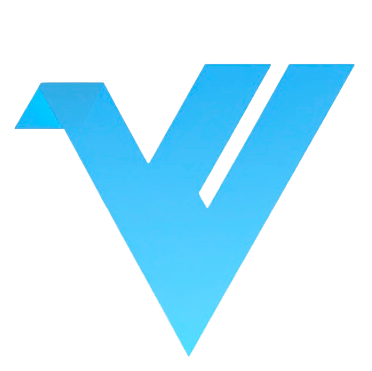
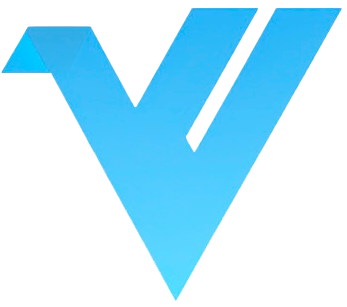
corrigido erros visuais ao tentar logar com um usuário não existente

diff --git a/src/components/login-form.tsx b/src/components/login-form.tsx
@@ -6,7 +6,6 @@ import { Label } from "@/components/ui/label";
 import { Card, CardContent, CardHeader, CardTitle } from "@/components/ui/card";
 import { useNavigate } from "react-router-dom";
 import ModalAviso from "@/components/modal-aviso";
-import { AlertTriangle } from "lucide-react";
 
 export function LoginForm() {
   const [login, setLogin] = useState("");
@@ -58,11 +57,11 @@ export function LoginForm() {
     <div className="min-h-screen w-screen flex items-center justify-center bg-gradient-to-br from-blue-100 to-blue-300 p-4 m-0">
       <div className="flex w-full max-w-5xl h-[500px] bg-white rounded-lg shadow overflow-hidden">
         {/* Imagem à esquerda */}
-        <div className="basis-1/2 bg-gradient-to-br from-gray-100 to-gray-300 hidden md:block">
+        <div className="basis-1/2 bg-gradient-to-br from-gray-100 to-gray-300 hidden md:flex items-center justify-center">
           <img
             src="/vlf.png"
             alt="Ilustração de login"
-            className="w-full h-full object-cover"
+                className="w-[90%] h-[90%] object-contain"
           />
         </div>
 
